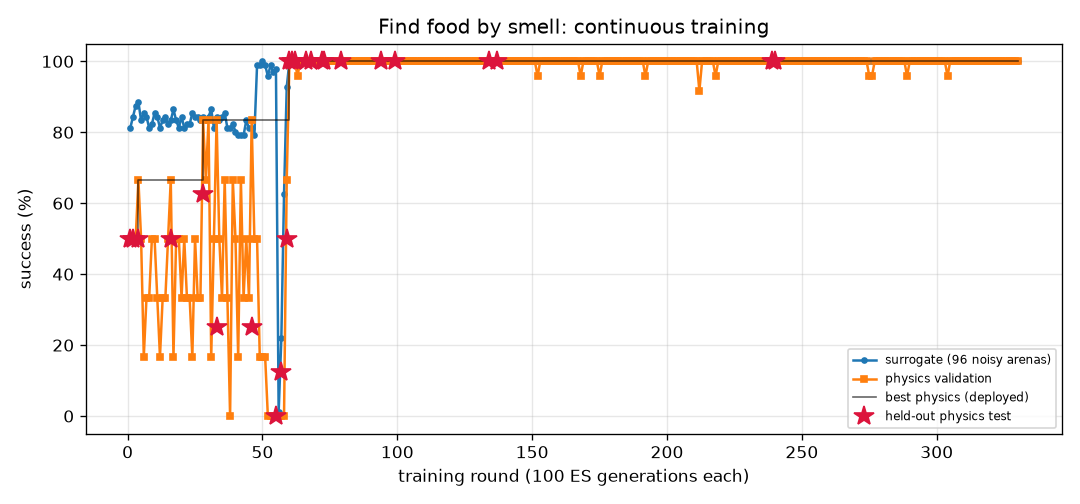
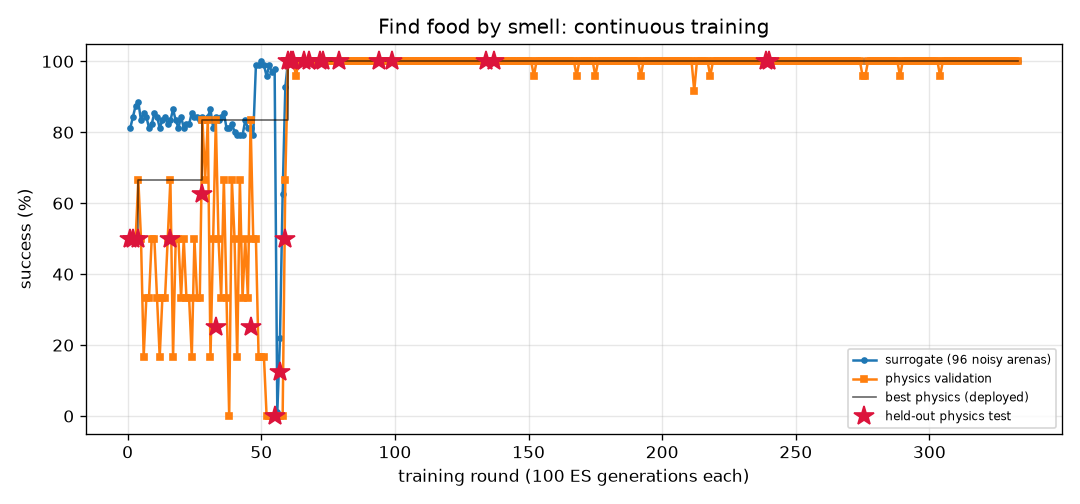
FlyLab: daily snapshot 2026-11-25
Daily entry in projects/09_flylab/training/daily/2026-11.md, plus 13 uncommitted training output file(s).

diff --git a/projects/09_flylab/training/odor_seek/REPORT.md b/projects/09_flylab/training/odor_seek/REPORT.md
@@ -1,14 +1,14 @@
 # Find food by smell (`odor_seek`) — training report
 
-*Auto-generated by `train_brains.py`, last updated 2026-11-24T22:00:40.*
+*Auto-generated by `train_brains.py`, last updated 2026-11-24T22:54:51.*
 
 ![curve](curve.png)
 
 | | |
 |---|---|
-| rounds | 330 |
-| ES generations | 33000 |
-| physics runs | 7414 |
+| rounds | 333 |
+| ES generations | 33300 |
+| physics runs | 7486 |
 | status | **optimal** |
 | best brain | round 240: physics validation **100%** on 24 arenas, surrogate 100% |
 | held-out physics test | **100%** on 32 unseen arenas (95% CI 89%-100%) (errors: [0.02, 0.03, 0.03, 0.05, 0.04, 0.05, 0.06, 0.07, 0.09, 0.05, 0.05, 0.01, 0.12, 0.03, 0.07, 0.08, 0.02, 0.06, 0.03, 0.04, 0.0, 0.01, 0.09, 0.05, 0.04, 0.01, 0.07, 0.05, 0.08, 0.05, 0.05, 0.02]) |
@@ -17,9 +17,6 @@ Physics error per arena: mm from target at the end (< 1.5 and standing still = s
 
 | round | level | gens | sigma | surrogate | physics val | val errors | test | note |
 |---:|---:|---:|---:|---:|---:|---|---:|---|
-| 291 | 3 | 29100 | 0.024 | 100% | 100% | [0.18, 0.14, 0.12, 0.09, 0.09, 0.11, 0.14, 0.23, 0.14, 0.18, 0.17, 0.15, 0.16, 0.11, 0.13, 0.16, 0.13, 0.1, 0.18, 0.24, 0.13, 0.2, 0.09, 0.13] |  |  |
-| 292 | 3 | 29200 | 0.024 | 100% | 100% | [0.06, 0.08, 0.07, 0.17, 0.18, 0.14, 0.07, 0.06, 0.05, 0.1, 0.18, 0.15, 0.15, 0.16, 0.08, 0.16, 0.05, 0.12, 0.06, 0.14, 0.12, 0.05, 0.13, 0.05] |  | restart from best |
-| 293 | 3 | 29300 | 0.024 | 100% | 100% | [0.19, 0.09, 0.15, 0.21, 0.17, 0.17, 0.17, 0.19, 0.18, 0.1, 0.17, 0.15, 0.26, 0.18, 0.11, 0.11, 0.19, 0.14, 0.16, 0.13, 0.13, 0.06, 0.2, 0.14] |  |  |
 | 294 | 3 | 29400 | 0.024 | 100% | 100% | [0.21, 0.13, 0.13, 0.17, 0.23, 0.1, 0.16, 0.24, 0.28, 0.18, 0.15, 0.13, 0.17, 0.19, 0.22, 0.12, 0.15, 0.19, 0.15, 0.18, 0.17, 0.12, 0.29, 0.13] |  |  |
 | 295 | 3 | 29500 | 0.024 | 100% | 100% | [0.2, 0.19, 0.16, 0.21, 0.25, 0.19, 0.28, 0.21, 0.17, 0.18, 0.19, 0.28, 0.18, 0.15, 0.18, 0.19, 0.2, 0.26, 0.22, 0.18, 0.2, 0.16, 0.2, 0.15] |  |  |
 | 296 | 3 | 29600 | 0.024 | 100% | 100% | [0.15, 0.26, 0.21, 0.2, 0.14, 0.14, 0.06, 0.21, 0.11, 0.13, 0.13, 0.1, 0.13, 0.2, 0.04, 0.12, 0.14, 0.11, 0.14, 0.21, 0.21, 0.06, 0.19, 0.25] |  | restart from best |
@@ -57,3 +54,6 @@ Physics error per arena: mm from target at the end (< 1.5 and standing still = s
 | 328 | 3 | 32800 | 0.024 | 100% | 100% | [0.16, 0.22, 0.17, 0.16, 0.17, 0.17, 0.23, 0.15, 0.2, 0.17, 0.25, 0.21, 0.15, 0.2, 0.17, 0.19, 0.15, 0.19, 0.2, 0.15, 0.2, 0.2, 0.2, 0.17] |  | restart from best |
 | 329 | 3 | 32900 | 0.024 | 100% | 100% | [0.16, 0.14, 0.17, 0.17, 0.2, 0.19, 0.2, 0.12, 0.18, 0.13, 0.14, 0.2, 0.18, 0.18, 0.2, 0.12, 0.18, 0.15, 0.18, 0.16, 0.1, 0.21, 0.19, 0.12] |  |  |
 | 330 | 3 | 33000 | 0.024 | 100% | 100% | [0.1, 0.09, 0.14, 0.1, 0.08, 0.06, 0.07, 0.05, 0.06, 0.06, 0.09, 0.06, 0.05, 0.15, 0.03, 0.05, 0.12, 0.06, 0.03, 0.05, 0.12, 0.05, 0.25, 0.06] |  |  |
+| 331 | 3 | 33100 | 0.024 | 100% | 100% | [0.2, 0.17, 0.24, 0.21, 0.16, 0.11, 0.22, 0.07, 0.12, 0.15, 0.12, 0.14, 0.11, 0.2, 0.09, 0.22, 0.16, 0.16, 0.18, 0.13, 0.18, 0.08, 0.13, 0.15] |  |  |
+| 332 | 3 | 33200 | 0.024 | 100% | 100% | [0.1, 0.14, 0.15, 0.12, 0.16, 0.1, 0.15, 0.1, 0.13, 0.13, 0.11, 0.15, 0.22, 0.11, 0.13, 0.16, 0.14, 0.18, 0.17, 0.15, 0.11, 0.24, 0.14, 0.13] |  | restart from best |
+| 333 | 3 | 33300 | 0.024 | 100% | 100% | [0.13, 0.12, 0.22, 0.13, 0.16, 0.15, 0.14, 0.17, 0.15, 0.14, 0.12, 0.2, 0.14, 0.14, 0.16, 0.21, 0.16, 0.16, 0.17, 0.13, 0.06, 0.15, 0.13, 0.14] |  |  |

diff --git a/projects/09_flylab/training/walk_forward/REPORT.md b/projects/09_flylab/training/walk_forward/REPORT.md
@@ -1,14 +1,14 @@
 # Walk forward (`walk_forward`) — training report
 
-*Auto-generated by `train_brains.py`, last updated 2026-11-24T22:04:09.*
+*Auto-generated by `train_brains.py`, last updated 2026-11-24T22:36:44.*
 
 ![curve](curve.png)
 
 | | |
 |---|---|
-| rounds | 531 |
-| ES generations | 53100 |
-| physics runs | 12822 |
+| rounds | 534 |
+| ES generations | 53400 |
+| physics runs | 12894 |
 | status | **optimal** |
 | best brain | round 485: physics validation **100%** on 24 arenas, surrogate 100% |
 | held-out physics test | **100%** on 32 unseen arenas (95% CI 89%-100%) (errors: [0.14, 0.13, 0.15, 0.21, 0.14, 0.12, 0.13, 0.18, 0.2, 0.15, 0.13, 0.14, 0.2, 0.15, 0.12, 0.12, 0.14, 0.14, 0.13, 0.13, 0.14, 0.21, 0.14, 0.13, 0.14, 0.14, 0.18, 0.14, 0.14, 0.14, 0.17, 0.15]) |
@@ -17,9 +17,6 @@ Physics error per arena: mm from target at the end (< 1.5 and standing still = s
 
 | round | level | gens | sigma | surrogate | physics val | val errors | test | note |
 |---:|---:|---:|---:|---:|---:|---|---:|---|
-| 492 | 3 | 49200 | 0.024 | 99% | 83% | [0.1, 0.16, 0.14, 0.09, 0.16, 0.15, 0.18, 0.41, 0.16, 0.21, 0.15, 0.22, 0.02, 0.14, 0.1, 0.22, 0.53, 0.14, 1.0, 0.11, 0.15, 0.22, 0.21, 0.12] |  |  |
-| 493 | 3 | 49300 | 0.025 | 99% | 100% | [0.18, 0.26, 0.07, 0.17, 0.26, 0.16, 0.27, 0.15, 0.26, 0.25, 0.18, 0.24, 0.13, 0.17, 0.21, 0.24, 0.16, 0.25, 0.14, 0.23, 0.14, 0.25, 0.23, 0.11] |  | restart from best |
-| 494 | 3 | 49400 | 0.024 | 100% | 92% | [0.09, 0.11, 0.16, 0.1, 0.17, 0.16, 0.39, 0.13, 0.09, 0.1, 0.14, 0.1, 0.12, 0.16, 0.1, 0.13, 0.09, 0.13, 0.12, 0.12, 0.11, 0.12, 0.11, 1.51] |  |  |
 | 495 | 3 | 49500 | 0.024 | 100% | 96% | [0.3, 0.34, 0.07, 0.3, 0.34, 0.14, 0.34, 0.08, 0.34, 0.06, 0.2, 0.15, 0.26, 0.11, 0.33, 0.16, 0.26, 0.35, 0.07, 0.36, 0.23, 0.1, 0.07, 0.04] |  |  |
 | 496 | 3 | 49600 | 0.024 | 100% | 83% | [0.04, 0.28, 0.12, 0.02, 0.29, 0.31, 0.29, 0.04, 0.29, 0.27, 0.05, 0.01, 0.35, 0.02, 0.17, 0.26, 0.88, 0.27, 0.39, 0.2, 0.08, 0.26, 0.11, 0.08] |  |  |
 | 497 | 3 | 49700 | 0.024 | 100% | 100% | [0.18, 0.29, 0.21, 0.17, 0.29, 0.23, 0.3, 0.19, 0.3, 0.3, 0.23, 0.28, 0.2, 0.22, 0.19, 0.29, 0.17, 0.27, 0.19, 0.21, 0.18, 0.3, 0.28, 0.19] |  | restart from best |
@@ -57,3 +54,6 @@ Physics error per arena: mm from target at the end (< 1.5 and standing still = s
 | 529 | 3 | 52900 | 0.024 | 100% | 100% | [0.15, 0.15, 0.16, 0.15, 0.15, 0.16, 0.16, 0.16, 0.15, 0.18, 0.15, 0.2, 0.16, 0.15, 0.15, 0.2, 0.15, 0.15, 0.16, 0.14, 0.15, 0.19, 0.21, 0.16] |  | restart from best |
 | 530 | 3 | 53000 | 0.024 | 100% | 92% | [0.1, 0.05, 0.07, 0.09, 0.03, 0.09, 0.07, 1.01, 0.06, 0.12, 0.1, 0.14, 0.09, 0.09, 0.1, 0.09, 0.09, 1.02, 0.02, 0.23, 0.59, 0.06, 0.07, 0.09] |  |  |
 | 531 | 3 | 53100 | 0.024 | 100% | 83% | [0.2, 0.24, 0.34, 0.19, 0.24, 0.4, 0.24, 0.06, 0.24, 0.23, 0.1, 0.1, 0.07, 0.08, 0.21, 0.21, 0.18, 0.23, 0.07, 0.23, 0.06, 0.23, 0.08, 0.16] |  |  |
+| 532 | 3 | 53200 | 0.024 | 100% | 100% | [0.22, 0.24, 0.09, 0.21, 0.23, 0.08, 0.1, 0.08, 0.23, 0.12, 0.04, 0.15, 0.2, 0.09, 0.23, 0.13, 0.21, 0.24, 0.2, 0.23, 0.21, 0.13, 0.12, 0.2] |  |  |
+| 533 | 3 | 53300 | 0.024 | 100% | 96% | [0.15, 0.22, 0.11, 0.15, 0.22, 0.12, 0.22, 0.11, 0.22, 0.22, 0.13, 0.21, 0.11, 0.29, 0.17, 0.21, 0.14, 0.21, 0.12, 0.18, 0.12, 0.22, 0.2, 0.11] |  | restart from best |
+| 534 | 3 | 53400 | 0.024 | 100% | 100% | [0.28, 0.35, 0.04, 0.28, 0.35, 0.04, 0.34, 0.22, 0.34, 0.34, 0.04, 0.32, 0.24, 0.23, 0.31, 0.33, 0.26, 0.34, 0.24, 0.32, 0.25, 0.34, 0.31, 0.23] |  |  |

diff --git a/projects/09_flylab/training/turn/REPORT.md b/projects/09_flylab/training/turn/REPORT.md
@@ -1,14 +1,14 @@
 # Turn in place (`turn`) — training report
 
-*Auto-generated by `train_brains.py`, last updated 2026-11-24T19:32:51.*
+*Auto-generated by `train_brains.py`, last updated 2026-11-24T22:59:01.*
 
 ![curve](curve.png)
 
 | | |
 |---|---|
-| rounds | 1340 |
-| ES generations | 134000 |
-| physics runs | 32406 |
+| rounds | 1343 |
+| ES generations | 134300 |
+| physics runs | 32478 |
 | status | **optimal** |
 | best brain | round 80: physics validation **100%** on 24 arenas, surrogate 100% |
 | held-out physics test | **97%** on 32 unseen arenas (95% CI 84%-99%) (errors: [1.6, 3.3, 6.3, 3.7, 1.1, 0.4, 2.4, 2.9, 0.1, 2.6, 0.5, 2.7, 1.5, 3.1, 4.5, 0.2, 0.5, 1.1, 2.0, 4.4, 2.8, 3.2, 0.3, 2.2, 0.5, 3.0, 0.3, 5.4, 0.4, 1.0, 4.7, 10.7]) |
@@ -17,9 +17,6 @@ Physics error per arena: deg from target heading (< 20 = success).
 
 | round | level | gens | sigma | surrogate | physics val | val errors | test | note |
 |---:|---:|---:|---:|---:|---:|---|---:|---|
-| 1301 | 3 | 130100 | 0.024 | 100% | 100% | [2.8, 2.5, 8.4, 1.6, 3.8, 4.2, 6.1, 7.3, 7.5, 3.6, 4.6, 3.0, 0.3, 0.6, 3.5, 11.9, 3.1, 4.0, 3.8, 13.9, 2.1, 2.6, 6.7, 8.1] |  |  |
-| 1302 | 3 | 130200 | 0.024 | 100% | 88% | [5.8, 3.4, 5.6, 4.3, 0.6, 5.7, 5.7, 5.2, 5.5, 0.1, 3.9, 0.0, 0.0, 0.2, 4.9, 0.4, 0.7, 1.7, 1.1, 0.6, 6.0, 0.8, 4.1, 0.9] |  |  |
-| 1303 | 3 | 130300 | 0.024 | 99% | 96% | [10.0, 10.9, 11.7, 1.2, 2.2, 0.3, 3.1, 0.1, 2.3, 0.1, 3.7, 3.2, 2.9, 6.1, 3.2, 2.3, 2.7, 0.3, 2.5, 2.4, 9.1, 1.4, 1.3, 7.5] |  |  |
 | 1304 | 3 | 130400 | 0.025 | 99% | 88% | [10.8, 12.5, 8.4, 0.8, 3.1, 0.1, 2.3, 9.0, 2.1, 2.9, 3.7, 3.7, 5.1, 6.6, 3.3, 1.2, 3.2, 2.0, 2.7, 3.1, 10.6, 1.6, 0.3, 8.9] |  | restart from best |
 | 1305 | 3 | 130500 | 0.024 | 100% | 75% | [0.1, 2.5, 1.7, 0.1, 1.3, 13.5, 6.7, 8.0, 7.0, 0.4, 4.9, 1.5, 0.3, 0.5, 5.3, 5.7, 1.6, 1.1, 2.0, 3.4, 4.6, 1.2, 7.0, 6.9] |  |  |
 | 1306 | 3 | 130600 | 0.024 | 100% | 88% | [0.3, 2.1, 2.2, 0.8, 0.5, 2.6, 4.1, 8.5, 7.3, 1.8, 5.5, 0.9, 1.9, 0.8, 5.4, 2.7, 1.1, 0.9, 3.2, 3.5, 5.9, 2.0, 6.3, 6.7] |  |  |
@@ -57,3 +54,6 @@ Physics error per arena: deg from target heading (< 20 = success).
 | 1338 | 3 | 133800 | 0.025 | 100% | 96% | [0.2, 12.6, 4.6, 0.5, 1.3, 3.5, 8.3, 5.9, 8.2, 3.5, 4.1, 5.0, 0.3, 1.2, 2.6, 3.7, 4.8, 3.7, 6.0, 5.2, 1.3, 2.8, 9.1, 7.7] |  |  |
 | 1339 | 3 | 133900 | 0.024 | 99% | 100% | [3.9, 13.9, 2.6, 4.4, 1.3, 0.2, 9.8, 9.6, 8.7, 13.4, 4.4, 5.3, 0.0, 2.9, 2.9, 12.2, 5.0, 3.7, 12.1, 4.2, 2.7, 3.6, 7.5, 4.7] |  |  |
 | 1340 | 3 | 134000 | 0.025 | 99% | 92% | [0.4, 6.2, 9.9, 5.0, 0.5, 1.3, 8.6, 10.4, 7.1, 14.1, 7.8, 7.2, 1.5, 4.0, 5.3, 13.7, 2.3, 5.5, 14.0, 14.2, 0.9, 2.6, 8.7, 10.8] |  | restart from best |
+| 1341 | 3 | 134100 | 0.024 | 99% | 67% | [1.7, 1.5, 6.7, 0.3, 0.2, 8.7, 6.5, 1.0, 7.7, 1.2, 5.9, 1.2, 1.8, 0.4, 4.5, 3.8, 0.5, 3.7, 3.8, 0.8, 114.8, 1.9, 6.5, 5.3] |  |  |
+| 1342 | 3 | 134200 | 0.025 | 100% | 71% | [0.8, 2.5, 0.4, 1.1, 0.9, 13.2, 5.8, 8.6, 9.4, 1.6, 6.0, 1.1, 2.6, 1.9, 4.9, 3.4, 2.2, 3.8, 1.7, 4.2, 3.0, 3.3, 7.0, 2.7] |  |  |
+| 1343 | 3 | 134300 | 0.024 | 99% | 92% | [4.1, 6.5, 3.7, 0.7, 12.0, 1.5, 3.8, 5.3, 3.8, 11.6, 3.4, 0.6, 2.4, 1.7, 2.9, 1.0, 0.1, 0.4, 1.6, 2.0, 3.5, 0.3, 5.9, 0.9] |  |  |

diff --git a/projects/09_flylab/training/TRAINING.md b/projects/09_flylab/training/TRAINING.md
@@ -1,15 +1,15 @@
 # FlyLab brains — continuous training log
 
-*Auto-generated by `train_brains.py`, last updated 2026-11-24T22:04:09.*
+*Auto-generated by `train_brains.py`, last updated 2026-11-24T22:59:01.*
 
 Every skill has its own brain and its own training process: surrogate ES rounds, physics validation in MuJoCo, keep-the-best selection, and a held-out physics test that is never used for selection. See each skill's report for its full round-by-round history. Mastery is progressive: passing a level (100% physics validation, >=95% surrogate) doubles the validation and test arena sets; a brain is **optimal** once it holds up at level 3 (>=95% of 24 validation arenas) AND scores >=90% on the 32 held-out test arenas. Test columns show 95% Wilson confidence intervals.
 
 | skill | rounds | ES generations | physics runs | surrogate | physics val | **physics test** | status |
 |---|---:|---:|---:|---:|---:|---:|---|
-| [Walk forward](walk_forward/REPORT.md) | 531 | 53100 | 12822 | 100% | 100% of 24 | 100% of 32 (CI 89-100%) | **optimal** |
-| [Turn in place](turn/REPORT.md) | 1340 | 134000 | 32406 | 100% | 100% of 24 | 97% of 32 (CI 84-99%) | **optimal** |
+| [Walk forward](walk_forward/REPORT.md) | 534 | 53400 | 12894 | 100% | 100% of 24 | 100% of 32 (CI 89-100%) | **optimal** |
+| [Turn in place](turn/REPORT.md) | 1343 | 134300 | 32478 | 100% | 100% of 24 | 97% of 32 (CI 84-99%) | **optimal** |
 | [Go to a location](goto/REPORT.md) | 411 | 41100 | 9814 | 100% | 100% of 24 | 100% of 32 (CI 89-100%) | **optimal** |
-| [Find food by smell](odor_seek/REPORT.md) | 330 | 33000 | 7414 | 100% | 100% of 24 | 100% of 32 (CI 89-100%) | **optimal** |
+| [Find food by smell](odor_seek/REPORT.md) | 333 | 33300 | 7486 | 100% | 100% of 24 | 100% of 32 (CI 89-100%) | **optimal** |
 | [Escape a bad smell](odor_avoid/REPORT.md) | 1132 | 113200 | 24474 | 97% | 100% of 24 | 97% of 32 (CI 84-99%) | **optimal** |
 | [Walk toward light](light_seek/REPORT.md) | 615 | 61500 | 11640 | 100% | 100% of 24 | 100% of 32 (CI 89-100%) | **optimal** |
 | [Hide from light](light_avoid/REPORT.md) | 845 | 84500 | 20552 | 100% | 100% of 24 | 100% of 32 (CI 89-100%) | **optimal** |

diff --git a/projects/09_flylab/training/daily/2026-11.md b/projects/09_flylab/training/daily/2026-11.md
@@ -256,3 +256,18 @@ Written by daily_commit.py once a day.
 
 - training supervisor: running
 - commits in the last 24 h: 13 (latest `2c10a85 22:31 FlyLab: continuous training progress`)
+
+## 2026-11-25 (Wed)
+
+| brain | state | level | physics val | test | round |
+|---|---|---|---|---|---|
+| walk_forward | optimal | 3 | 100% of 24 | 100% | 534 |
+| turn | optimal | 3 | 100% of 24 | 97% | 1343 |
+| goto | optimal | 3 | 100% of 24 | 100% | 411 |
+| odor_seek | optimal | 3 | 100% of 24 | 100% | 333 |
+| odor_avoid | optimal | 3 | 100% of 24 | 97% | 1132 |
+| light_seek | optimal | 3 | 100% of 24 | 100% | 615 |
+| light_avoid | optimal | 3 | 100% of 24 | 100% | 845 |
+
+- training supervisor: **not running**
+- commits in the last 24 h: 14 (latest `8359985 22:10 FlyLab: continuous training progress`)
